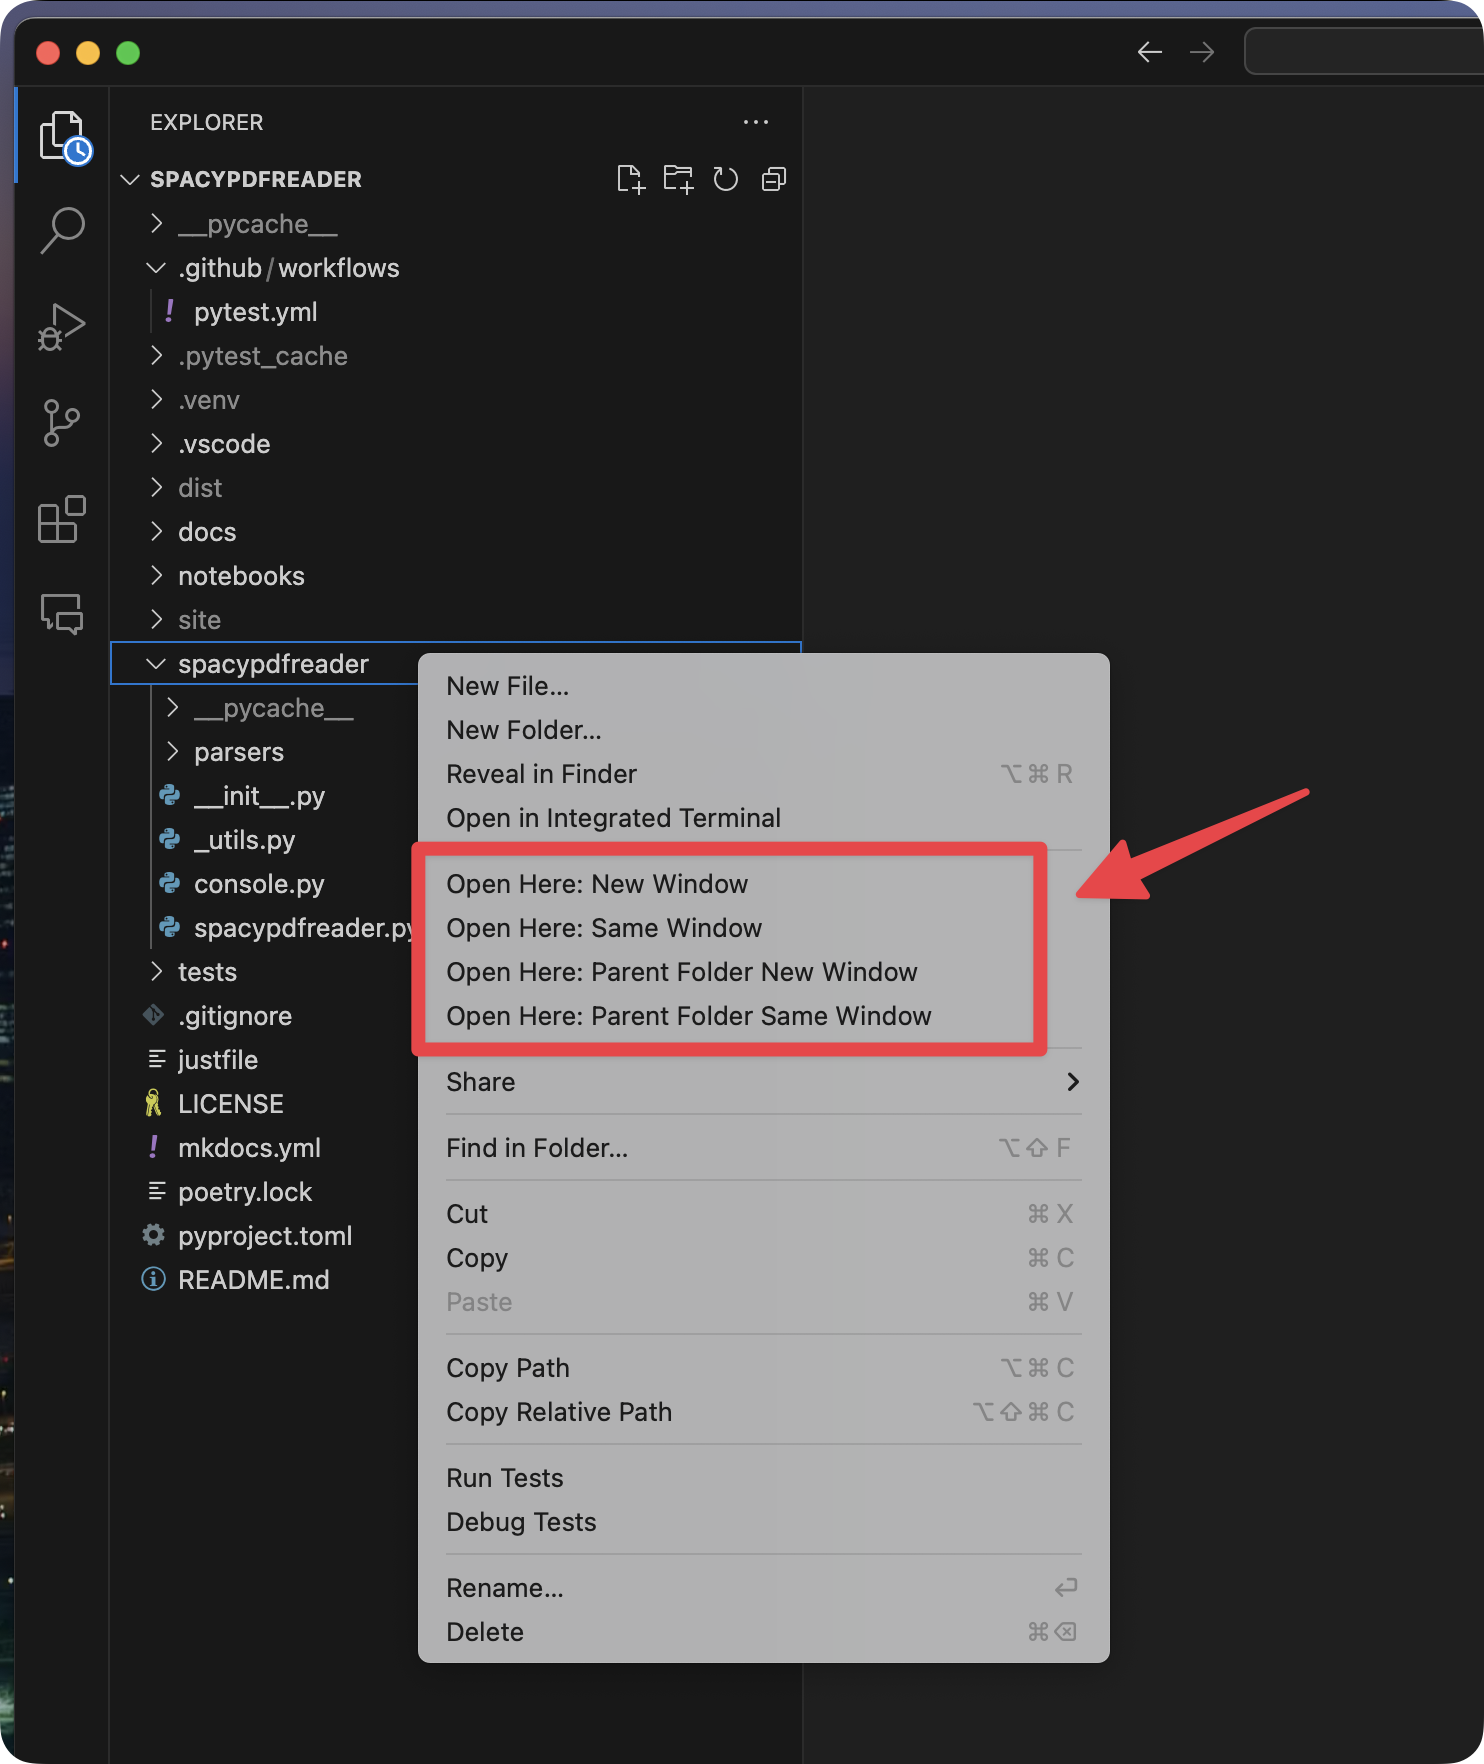
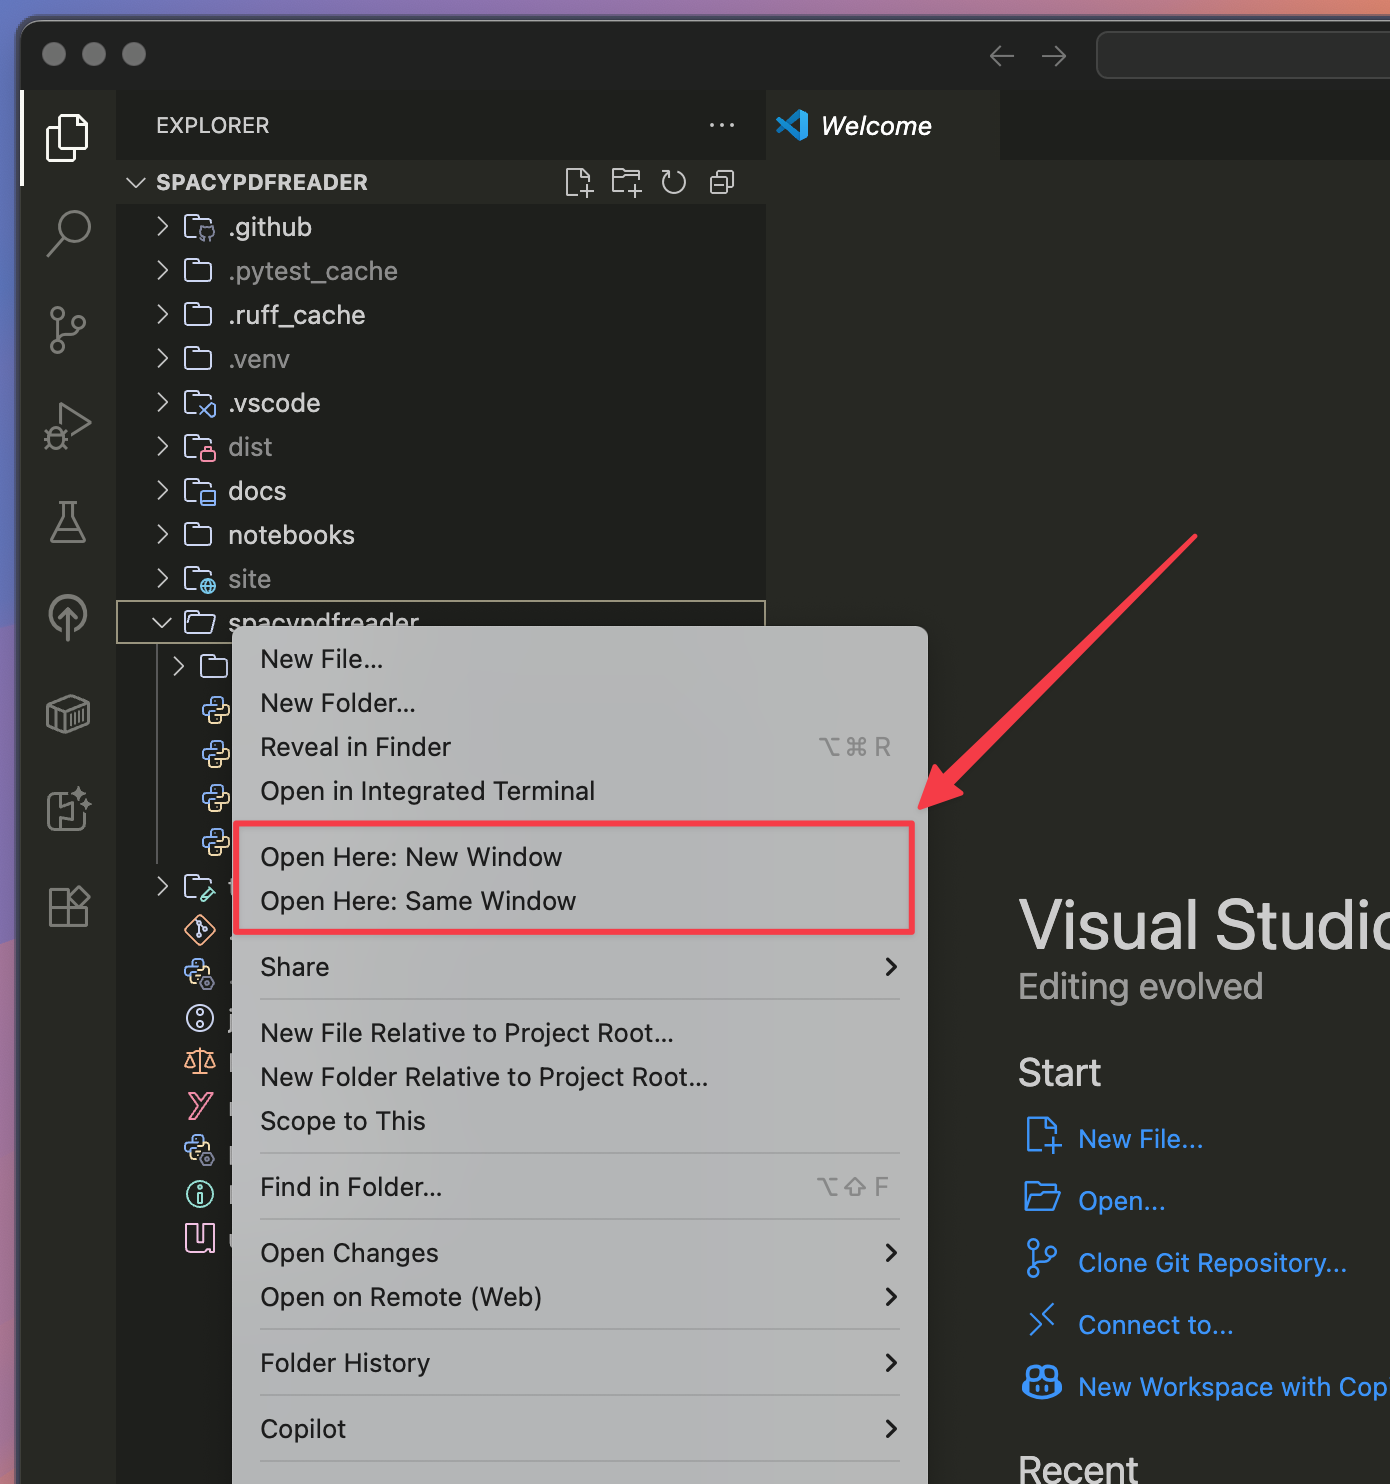
Update docs

diff --git a/README.md b/README.md
@@ -20,8 +20,8 @@ The follow commands are added to the explorer context menu:
 
 - `Open Here: New Window`
 - `Open Here: Same Window`
-- `Open Here: Parent Folder New Window`
-- `Open Here: Parent Folder Same Window`
+- `Open Here: Parent Folder New Window` (disabled by default)
+- `Open Here: Parent Folder Same Window` (disabled by default)
 
 Two commands are also added to the Command Palette:
 
@@ -38,8 +38,8 @@ None
 {
     "right-click-open-here.contextMenu.openFolder.showNewWindow": true,
     "right-click-open-here.contextMenu.openFolder.showSameWindow": true,
-    "right-click-open-here.contextMenu.parentFolder.showParentFolderNewWindow": true,
-    "right-click-open-here.contextMenu.parentFolder.showParentFolderSameWindow": true
+    "right-click-open-here.contextMenu.parentFolder.showParentFolderNewWindow": false,
+    "right-click-open-here.contextMenu.parentFolder.showParentFolderSameWindow": false
 }
 ```
 

diff --git a/CHANGELOG.md b/CHANGELOG.md
@@ -4,6 +4,17 @@
 
 - No changes.
 
+## 0.0.6 (2025-08-07)
+
+- Disable `Open Here: Parent Folder New Window` and `Open Here: Parent Folder Same Window` from the context menu by default. Closes #6. These commands were typically not useful to see in the context menu. To open the parent folder, you can use the command palette commands instead: `> Open Here: Open Workspace Parent Folder New Window` or `> Open Here: Open Workspace Parent Folder Same Window`
+
+```json
+{
+    "right-click-open-here.contextMenu.parentFolder.showParentFolderNewWindow": false,
+    "right-click-open-here.contextMenu.parentFolder.showParentFolderSameWindow": false
+}
+```
+
 ## 0.0.5 (2024-10-10)
 
 - Added settings to configure when commands to show in the context menu. This allows you to hide commands that you don't use from the context menu. Closes #5.
